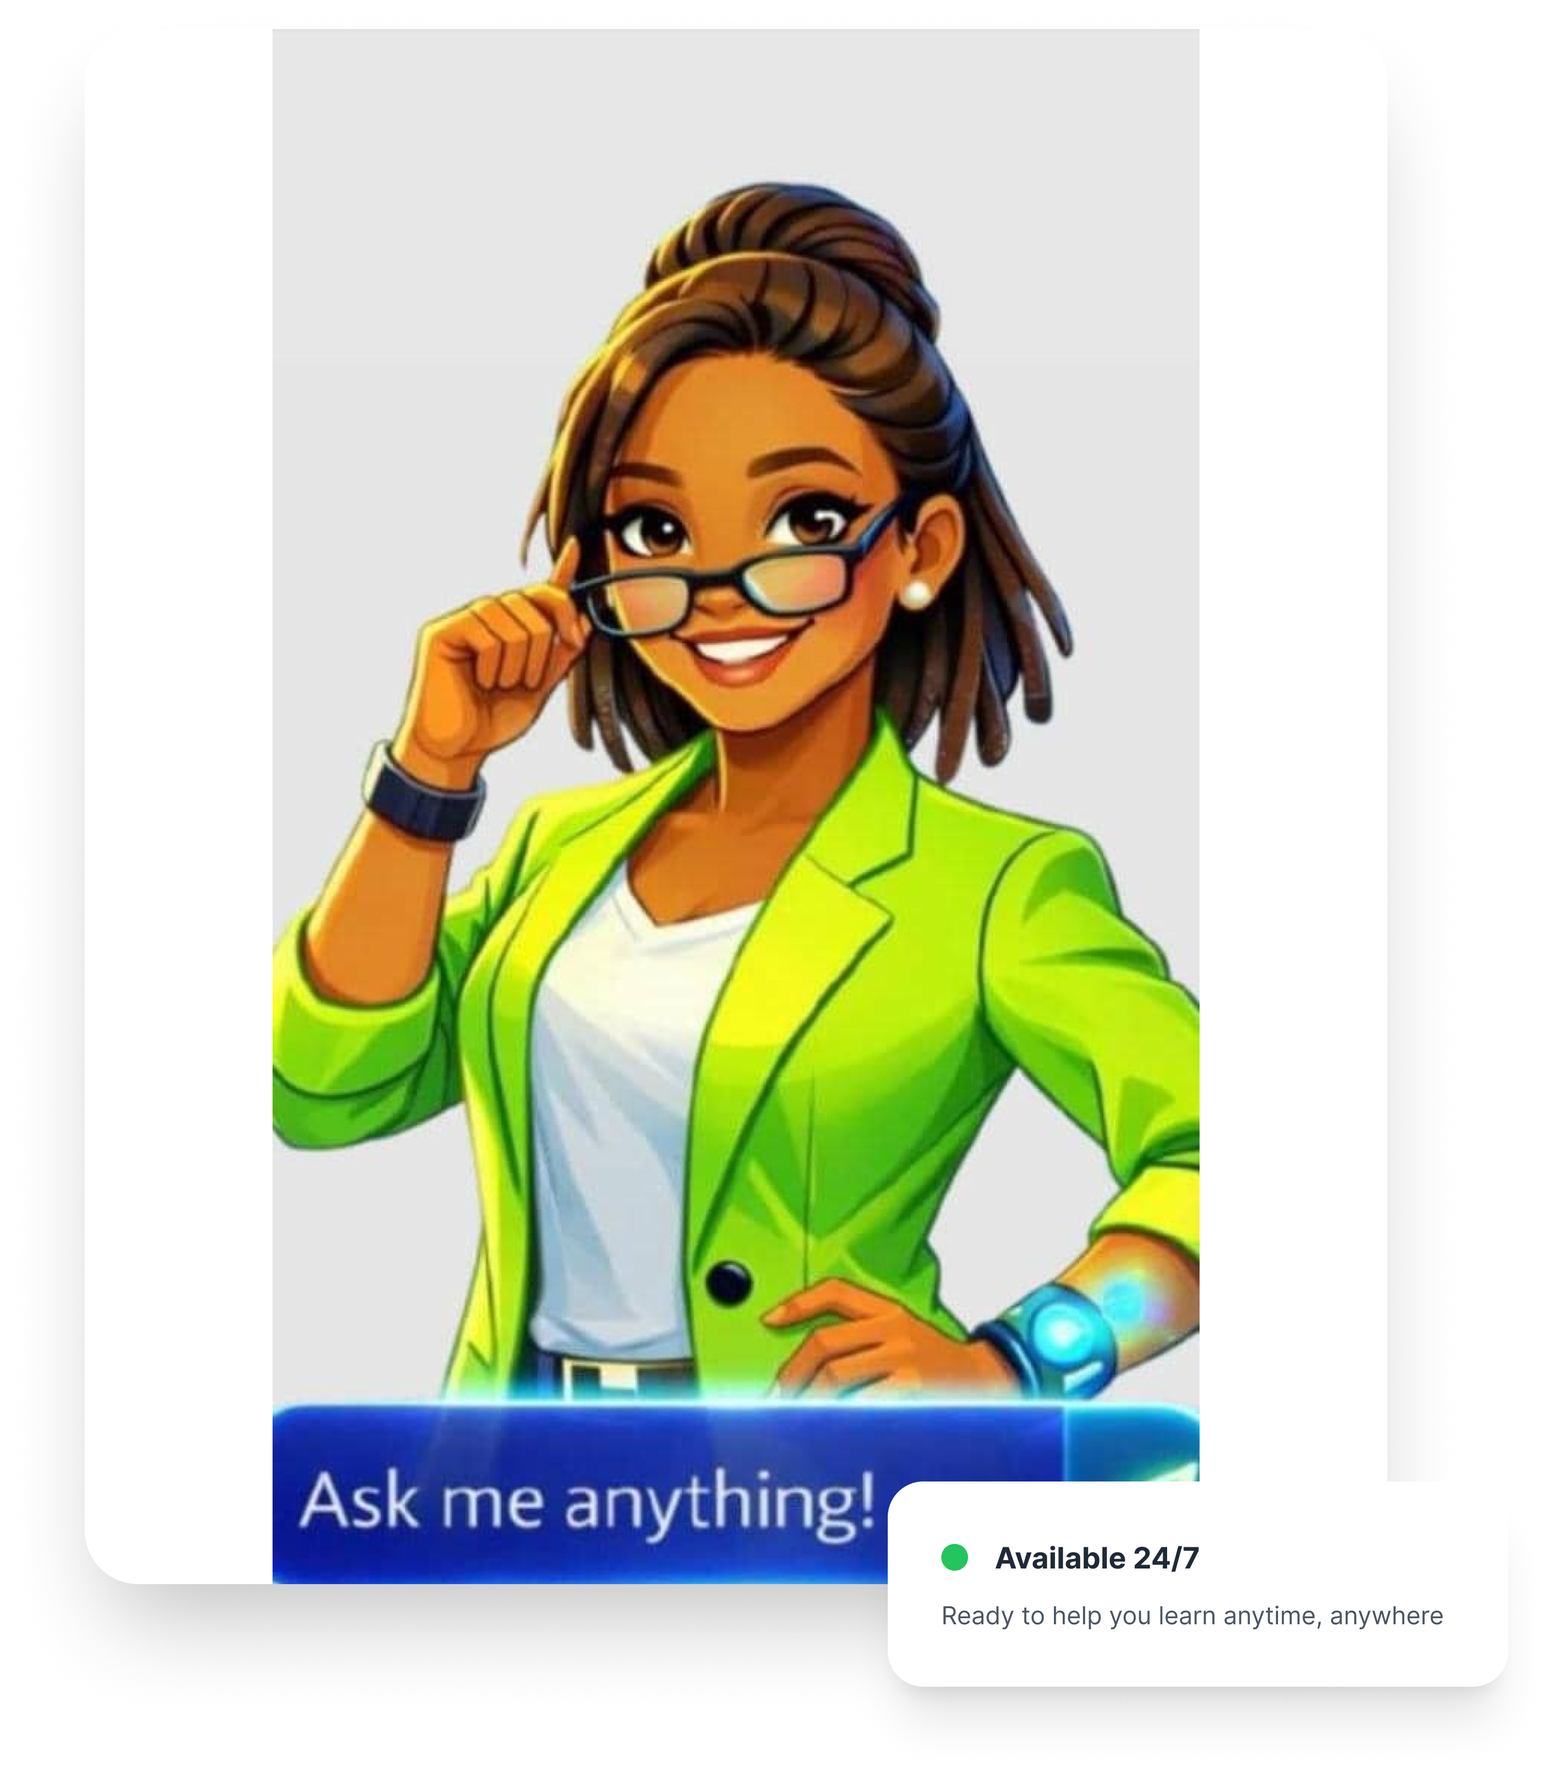
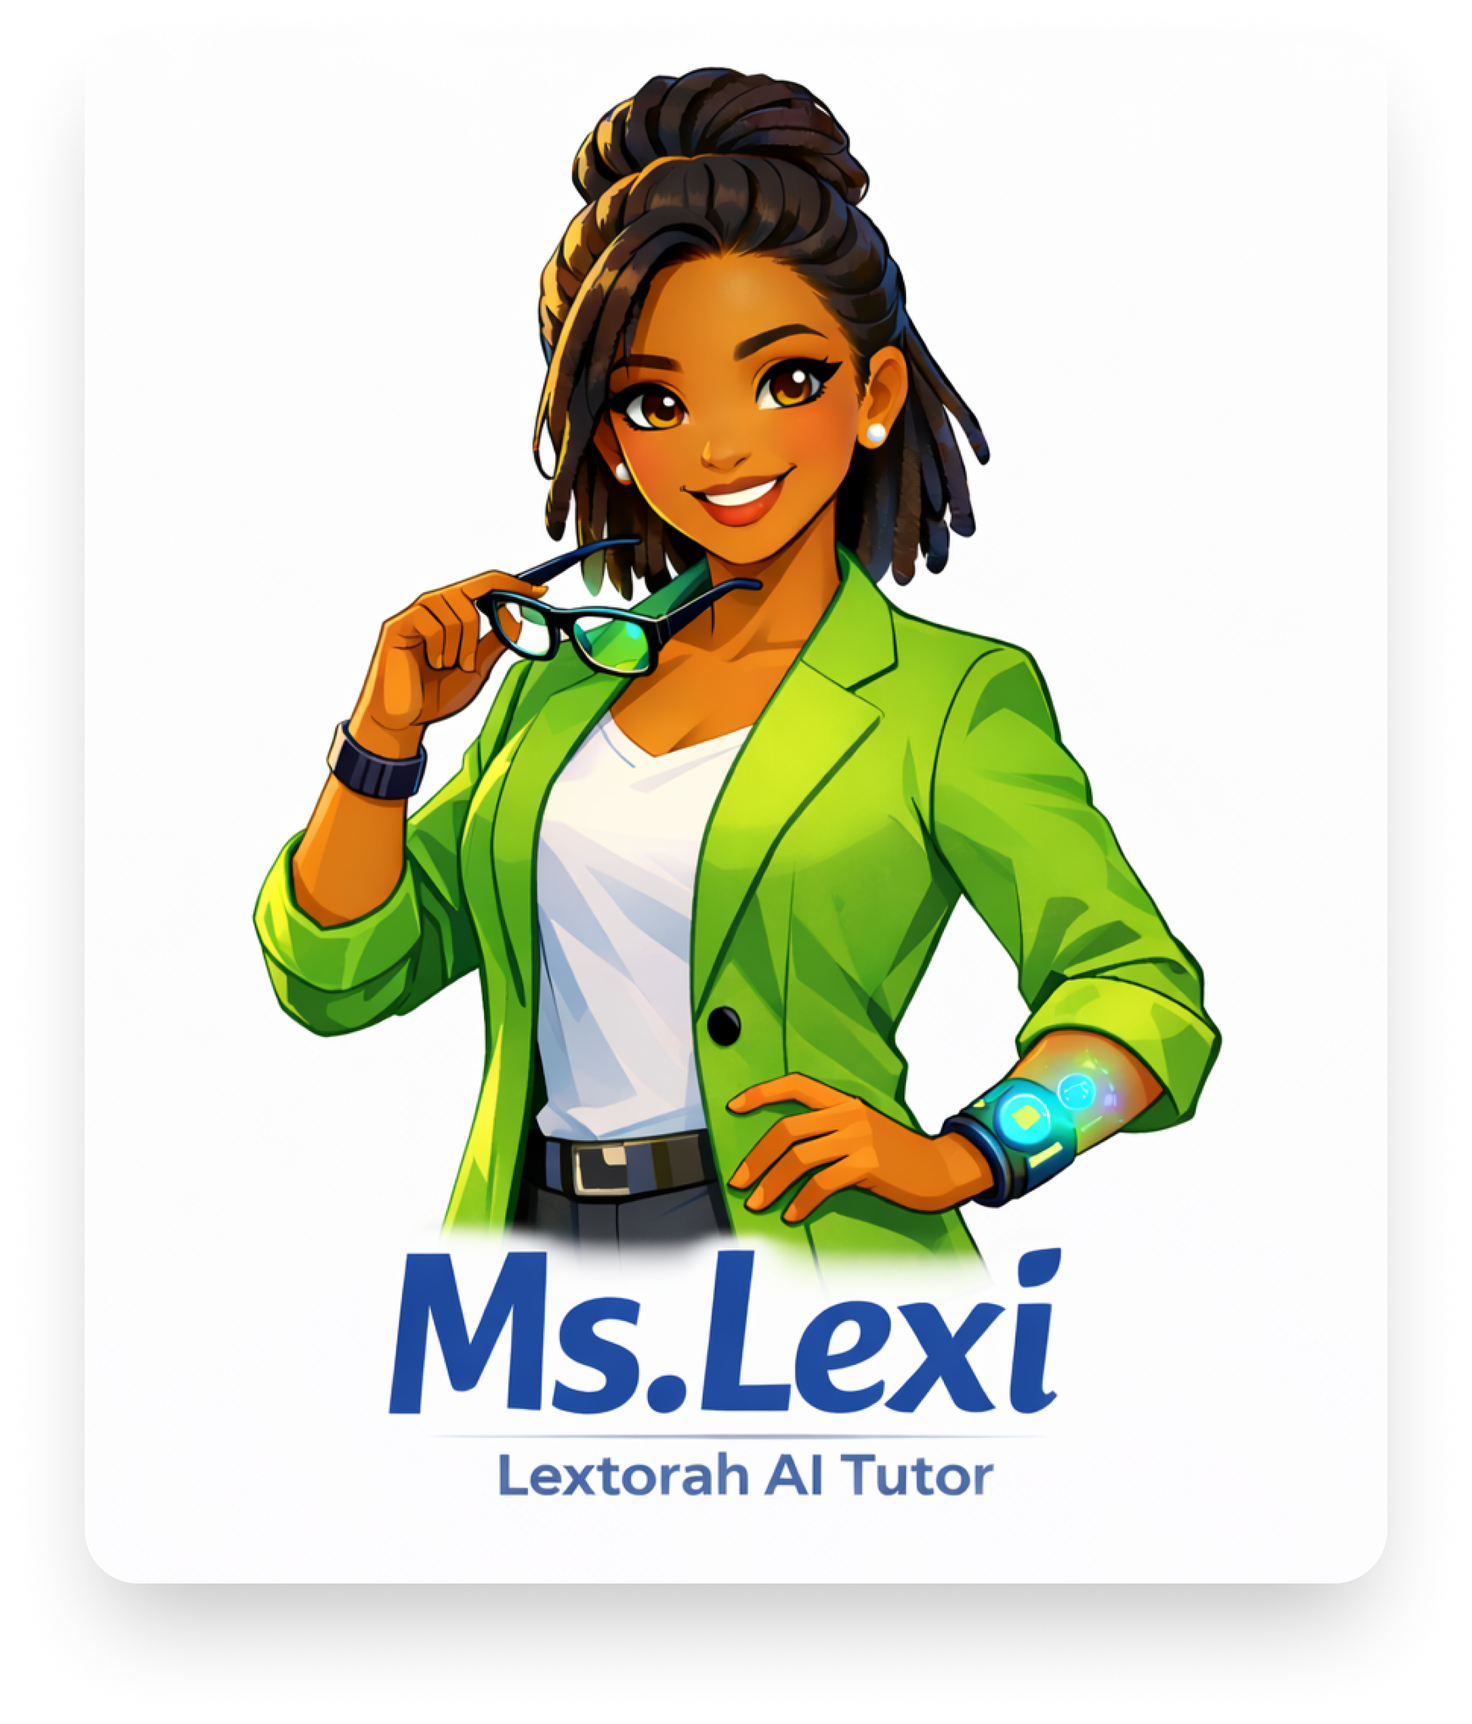
added online Db

diff --git a/src/(root)/Home.jsx b/src/(root)/Home.jsx
@@ -5,7 +5,7 @@ import { Link } from 'react-router-dom'
 import { ArrowRight, MessageSquare, Zap, Target, Smile, Clock, BookOpen, Shield, GraduationCap, Check, UserStar, Landmark, Instagram, Twitter, Linkedin, Facebook, CircleQuestionMark, Lightbulb, PenLine, ChartLine, NotepadText, ShieldCheck, Globe, MapPin } from 'lucide-react'
 import heroBg from '../assets/lextorah-home.jpg'
 import SupportChat from '../components/SupportChat'
-import lextorah from '../assets/container.png'
+import msLexi from '../assets/container.png'
 import student from '../assets/student.png'
 import teacher from '../assets/teacher.png'
 import institution from '../assets/institution.png'
@@ -41,14 +41,14 @@ const Home = () => {
       
       {/* Hero Section */}
       <div 
-        className="pt-28 pb-12 md:pb-20 px-4 md:px-8 mx-auto flex flex-col items-center text-center bg-cover bg-center min-h-[600px] md:min-h-[900px] w-full"
+        className="pt-[480px] md:pt-0 pb-12 md:pb-22 px-4 md:px- mx-auto flex flex-col items-start justify-center md:items-start text-left bg-cover bg-center min-h-[600px] md:min-h-[900px] w-full"
         style={{ backgroundImage: `url(${heroBg})` }}
       >
-        <div className="max-w-7xl mx-auto flex flex-col items-center text-center">
+        <div className="max-w-3xl mx-auto md:mx-0 flex flex-col items-center text-left md:pl-0">
         <motion.h1 
             initial={{ opacity: 0, y: 20 }}
             animate={{ opacity: 1, y: 0 }}
-            className="text-5xl md:text-7xl font-bold text-white mb-6 tracking-tight"
+            className="text-5xl md:text-7xl font-bold text-white mb-6 tracking-tight text-center"
         >
             Master any subject with <span className="text-green-500 gradient-to-r from-yellow-500 to-green-600">Lextorah AI Tutor</span>
         </motion.h1>
@@ -56,7 +56,7 @@ const Home = () => {
             initial={{ opacity: 0, y: 20 }}
             animate={{ opacity: 1, y: 0 }}
             transition={{ delay: 0.2 }}
-            className="text-xl md:text-2xl text-white mb-10 max-w-3xl leading-relaxed"
+            className="text-xl md:text-2xl text-white mb-10 max-w-3xl leading-relaxed text-center"
         >
             Experience personalized learning with voice interaction, step-by-step guidance, and instant feedback.
         </motion.p>
@@ -64,12 +64,12 @@ const Home = () => {
             initial={{ opacity: 0, y: 20 }}
             animate={{ opacity: 1, y: 0 }}
             transition={{ delay: 0.2 }}
-            className="flex flex-col sm:flex-row gap-4"
+            className="flex flex-col sm:flex-row gap-4 justify-center"
         >
-            <a href="https://www.lextorah-elearning.com/elearning/register" className="px-8 py-4 bg-green-500 hover:bg-green-600 text-white text-lg font-bold rounded-full transition-all shadow-lg hover:shadow-xl hover:-translate-y-1">
+            <a href="https://www.lextorah-elearning.com/elearning/register" className="px-8 py-4 bg-[#00C950] hover:bg-green-700 text-white text-lg font-bold rounded-4xl transition-all shadow-lg hover:shadow-xl hover:-translate-y-1">
                 Get Started for Free
             </a>
-             <Link to="/login" className="px-8 py-4 bg-white text-slate-700 border-2 border-slate-100 hover:border-green-200 text-lg font-bold rounded-full transition-all hover:-translate-y-1">
+             <Link to="/login" className="px-8 py-4 bg-white text-slate-700 border-2 border-slate-100 hover:border-green-200 text-lg font-bold rounded-4xl text-center transition-all hover:-translate-y-1">
                 Log In
             </Link>
         </motion.div>
@@ -85,10 +85,19 @@ const Home = () => {
         className='px-6 md:px-12 lg:px-28 py-16 md:py-24 grid md:grid-cols-2 gap-12 items-center' 
         id='aitutor'
     >
-        <motion.img variants={fadeInUp} src={lextorah} alt="" className="w-full h-auto rounded-2xl" />
+        <motion.div variants={fadeInUp} className="relative">
+            <img src={msLexi} alt="Ms. Lexi" className="w-full h-auto" />
+            <div className="absolute bottom-6 right-0 md:bottom-1 md:-right-10 bg-white p-4 md:p-5 rounded-2xl shadow-lg border border-slate-50 z-20 max-w-[200px] md:max-w-[240px]">
+                <div className="flex items-center gap-3 mb-1.5">
+                    <div className="w-2.5 h-2.5 bg-[#22C55E] rounded-full animate-pulse"></div>
+                    <h3 className="font-bold text-slate-900 text-sm md:text-base">Available 24/7</h3>
+                </div>
+                <p className="text-[10px] md:text-xs text-slate-500 leading-snug">Ready to help you learn anytime, anywhere</p>
+            </div>
+        </motion.div>
         <motion.div variants={fadeInUp}>
         <div className='bg-[#CCFBF1] py-3 px-6 rounded-full mb-6'>
-            <h1 className='text-[#0F766E] text-[24px] font-InterBold'> Meet Ms. Lexi     — Your AI Tutor & Learning Guide</h1>
+            <h1 className='text-[#0F766E] text-[24px] font-InterBold'> Meet Ms. Lexi® — Your AI Tutor & Learning Guide</h1>
         </div>
             <p className='text-[#374151] text-lg mb-6 font-Inter'>Ms. Lexi is Lextorah's AI-powered tutor and learning assistant, designed
                 to support learners, teachers, and institutions with personalized, on-
@@ -253,7 +262,7 @@ const Home = () => {
             id='howitworks'
         >
             <motion.div variants={fadeInUp}>
-                <h1 className='bg-[#CCFBF1] px-8 md:px-15 py-5 rounded-full w-fit mx-auto text-[#0F766E] font-InterBold text-[20px] md:text-[24px]'>Simple & Effective</h1>
+                <h1 className='bg-[#CCFBF1] px-8 md:px-15 py-5 rounded-full w-fit mx-auto text-[#0F766E] font-InterBold text-[20px] md:text-[42px]'>Simple & Effective</h1>
                 <h1 className='w-fit mx-auto mt-4 font-InterBold text-3xl md:text-[39px]'>How it works</h1>
                 <p className='w-fit mx-auto text-[#4B5563] mt-4 font-Inter text-center'>Four simple steps to smarter learning</p>
             </motion.div>
@@ -279,7 +288,7 @@ const Home = () => {
                     <img src={practice} alt="" className='mb-6' />
                     <PenLine className="w-12 h-12 py-1 px-3 bg-[#CCFBF1] rounded-lg text-[#0D9488] mb-3" />
                     <h1 className='font-InterBold mb-3'>Practice</h1>
-                    <p className='font-Inter text-[#4B5563]'>Learners receive exercises, quizzes, and revision prompts.</p>
+                    <p className='font-Inter text-[#4B5563] max-w-48'>Learners receive exercises, quizzes, and revision prompts.</p>
 
                 </motion.div>
 
@@ -306,7 +315,7 @@ const Home = () => {
             className='px-6 md:px-12 lg:px-20 py-16 md:py-20'
         >
             <motion.div variants={fadeInUp} className='px-0 md:px-6 text-center'>
-                <h1 className='text-[#0F766E] font-InterBold text-xl md:text-2xl bg-[#CCFBF1] mx-auto w-fit rounded-full py-4 px-4 mb-6'>Why Choose Lextorah AI?</h1>
+                <h1 className='text-[#0F766E] font-InterBold text-xl md:text-[52px] bg-[#CCFBF1] mx-auto w-fit rounded-full py-4 px-4 mb-6'>Why Choose Lextorah AI?</h1>
                 <h2 className='font-InterBold text-3xl md:text-4xl text-center mb-4'>Built for Education. Designed for Impact.</h2>
                 <p className='font-Inter text-[#4B5563] text-center mt-2 text-lg'>Not just another chatbot—a purpose-built educational AI platform</p>
             </motion.div>
@@ -318,7 +327,7 @@ const Home = () => {
 
                 <motion.div variants={staggerContainer} className='space-y-6'>
                     <div className='p-6 flex gap-4 bg-gradient-to-br from-[#F0FDFA] to-[#FFFFFF] rounded-xl shadow-xl border border-[#CCFBF1] transition-transform hover:-translate-y-1'>
-                        <BookOpen className="w-12 h-12 py-1 px-3 bg-[#CCFBF1] rounded-lg text-[#0D9488] mb-3 flex-shrink-0" />
+                        <BookOpen className="w-12 h-12 py-1 px-3 bg-[#0D9488] rounded-lg text-white mb-3 flex-shrink-0" />
                         <div className='gap-2' >
                             <h1 className='font-InterBold'>Education-First AI</h1>
                             <p className='font-Inter text-[#374151] text-sm'>Not a generic chatbot—purpose-built for learning with pedagogical principles at its core.</p>
@@ -326,7 +335,7 @@ const Home = () => {
                     </div>
 
                     <div className='p-6 flex gap-4 bg-gradient-to-br from-[#F0FDFA] to-[#FFFFFF] rounded-xl shadow-xl border border-[#CCFBF1] transition-transform hover:-translate-y-1'>
-                        <NotepadText className="w-12 h-12 py-1 px-3 bg-[#CCFBF1] rounded-lg text-[#0D9488] mb-3 flex-shrink-0" />
+                        <NotepadText className="w-12 h-12 py-1 px-3 bg-[#0D9488] rounded-lg text-white mb-3 flex-shrink-0" />
                         <div className='gap-2' >
                             <h1 className='font-InterBold'>Curriculum Aligned</h1>
                             <p className='font-Inter text-[#374151] text-sm'>Aligned with Lextorah curricula and programs to ensure consistent, quality education.</p>
@@ -334,7 +343,7 @@ const Home = () => {
                     </div>
 
                     <div className='p-6 flex gap-4 bg-gradient-to-br from-[#F0FDFA] to-[#FFFFFF] rounded-xl shadow-xl border border-[#CCFBF1] transition-transform hover:-translate-y-1'>
-                        <ShieldCheck className="w-12 h-12 py-1 px-3 bg-[#CCFBF1] rounded-lg text-[#0D9488] mb-3 flex-shrink-0" />
+                        <ShieldCheck className="w-12 h-12 py-1 px-3 bg-[#0D9488] rounded-lg text-white mb-3 flex-shrink-0" />
                         <div className='gap-2' >
                             <h1 className='font-InterBold'>Ethical Learning Support</h1>
                             <p className='font-Inter text-[#374151] text-sm'>No shortcuts or academic misconduct—designed to support genuine understanding.</p>
@@ -342,7 +351,7 @@ const Home = () => {
                     </div>
 
                     <div className='p-6 flex gap-4 bg-gradient-to-br from-[#F0FDFA] to-[#FFFFFF] rounded-xl shadow-xl border border-[#CCFBF1] transition-transform hover:-translate-y-1'>
-                        <Globe className="w-12 h-12 py-1 px-3 bg-[#CCFBF1] rounded-lg text-[#0D9488] mb-3 flex-shrink-0" />
+                        <Globe className="w-12 h-12 py-1 px-3 bg-[#0D9488] rounded-lg text-white mb-3 flex-shrink-0" />
                         <div className='gap-2' >
                             <h1 className='font-InterBold'>Multilingual & Inclusive</h1>
                             <p className='font-Inter text-[#374151] text-sm'>Supports multiple languages and learning levels for diverse learners worldwide.</p>
@@ -350,7 +359,7 @@ const Home = () => {
                     </div>
 
                     <div className='p-6 flex gap-4 bg-gradient-to-br from-[#F0FDFA] to-[#FFFFFF] rounded-xl shadow-xl border border-[#CCFBF1] transition-transform hover:-translate-y-1'>
-                        <MapPin className="w-12 h-12 py-1 px-3 bg-[#CCFBF1] rounded-lg text-[#0D9488] mb-3 flex-shrink-0" />
+                        <MapPin className="w-12 h-12 py-1 px-3 bg-[#0D9488] rounded-lg text-white mb-3 flex-shrink-0" />
                         <div className='gap-2' >
                             <h1 className='font-InterBold'>Built for Africa & Beyond</h1>
                             <p className='font-Inter text-[#374151] text-sm'>Designed for African and global learners with culturally relevant content.</p>
@@ -487,11 +496,11 @@ const Home = () => {
 
        {/* CTA Section */}
        <div className="py-18 relative">
-           <div className="max-w-5xl mx-auto px-4 text-center">
+           <div className="max-w-7xl mx-auto px-4 text-center">
                <div className="bg-[#0F766E] rounded-3xl p-12 md:p-20 relative overflow-hidden">
                     <div className="relative z-10">
                         <h2 className="text-4xl md:text-5xl font-bold text-white mb-6">Start Learning Smarter with Ms. Lexi®</h2>
-                        <p className="text-slate-300 text-lg mb-10 max-w-2xl mx-auto">Join thousands of learners, educators, and institutions transforming
+                        <p className="text-slate-300 text-lg mb-10 max-w-2xl mx-auto px-11">Join thousands of learners, educators, and institutions transforming
 education with AI-powered support</p>
                         <a href="https://www.lextorah-elearning.com/elearning/register" className="inline-block px-10 py-5 bg-white hover:bg-green-600 text-[#0D9488] font-bold rounded-full transition-all shadow-lg hover:shadow-green-500/25 text-lg hover:text-white">
                             Sign Up Now
@@ -501,11 +510,11 @@ education with AI-powered support</p>
            </div>
        </div>
 
-       <footer className="px-6 md:px-12 lg:px-20 bg-gradient-to-r from-[#0D9488] to-[#0F766E]">
+       <footer className="px-6 md:px-12 lg:px-20 bg-linear-to-r from-[#0D9488] to-[#0F766E]">
         <div className="py-16 px-4 md:px-8 space-y-12">
             <div className='grid grid-cols-1 md:grid-cols-2 lg:grid-cols-4 gap-8 md:gap-12'>
                 <div className='space-y-8'>
-                    <img src={logo} alt="" className='w-[128px]' />
+                    <img src={logo} alt="" className='w-32' />
                     <h1 className='text-white font-Inter'>Empowering Learning. Guiding Progress Globally.</h1>
                     <div className='flex gap-4 '>
                         <Instagram className='text-white'/>
@@ -516,29 +525,29 @@ education with AI-powered support</p>
                 </div>
 
                 <div className='space-y-8 '>
-                    <h1 className='font-InterBold text-white'>Product</h1>
-                    <ul className='space-y-3'>
+                    <h2 className='font-Inter text-white'>Explore Lextorah Programs.</h2>
+                    {/* <ul className='space-y-3'>
                         <li className='text-sm font-Inter text-white'>AI Tutor</li>
                         <li className='text-sm font-Inter text-white'>Digital Learning Support</li>
                         <li className='text-sm font-Inter text-white'>For Students</li>
                         <li className='text-sm font-Inter text-white'>For Parents</li>
                        
-                    </ul>
+                    </ul> */}
                 </div>
                 <div className='space-y-8 '>
-                    <h1 className='font-InterBold text-white'>Company</h1>
+                    {/* <h1 className='font-InterBold text-white'>Company</h1> */}
                     <ul className='space-y-3'>
                         <li className='text-sm font-Inter text-white'>About Us</li>
-                        <li className='text-sm font-Inter text-white'>Contact Us</li>
+                        <li className='text-sm font-Inter text-[#FFFFFF] py-0.5'>Contact Us</li>
                     </ul>
                 </div>
                 <div className='space-y-8 '>
-                    <h1 className='font-InterBold text-white'>Resources</h1>
+                    {/* <h1 className='font-InterBold text-white'>Resources</h1> */}
                     <ul className='space-y-3'>
-                        <li className='text-sm font-Inter text-white'>Help Center</li>
+                        {/* <li className='text-sm font-Inter text-white'>Help Center</li> */}
                         <li className='text-sm font-Inter text-white'>Privacy Policy</li>
-                        <li className='text-sm font-Inter text-white'>Terms of Use</li>
-                        <li className='text-sm font-Inter text-white'>Cookie Policy</li>
+                        <li className='text-sm font-Inter text-white'>Terms of Service</li>
+                        {/* <li className='text-sm font-Inter text-white'>Cookie Policy</li> */}
                     </ul>
                 </div>
 

diff --git a/src/components/NavBar.jsx b/src/components/NavBar.jsx
@@ -24,26 +24,26 @@ const NavBar = () => {
        
         {/* Desktop Menu */}
         <div className='items-center gap-8 hidden lg:flex'>
-            <NavLink to='/' className='text-slate-600 hover:text-green-600 font-medium transition-colors'>
-                Home
-            </NavLink>
             <a href='/#aitutor' className='text-slate-600 hover:text-green-600 font-medium transition-colors'>
-                AI Tutor
+                Meet Ms. Lexi®
+            </a>
+            <a href='/#features' className='text-slate-600 hover:text-green-600 font-medium transition-colors'>
+                Learners
             </a>
              <a href='/#features' className='text-slate-600 hover:text-green-600 font-medium transition-colors'>
-                Features
+                Teachers
             </a>
-            <a href='/#howitworks' className='text-slate-600 hover:text-green-600 font-medium transition-colors'>
-                    How It Works
+            <a href='/#features' className='text-slate-600 hover:text-green-600 font-medium transition-colors'>
+                    Parents
+            </a>
+            <a href='/#features' className='text-slate-600 hover:text-green-600 font-medium transition-colors'>
+                    Institutions
             </a>
 
             
             <div className="flex items-center gap-4 ml-4">
-                <Link to='/login' className='text-slate-900 font-bold hover:text-green-600 transition-colors'>
-                    Log In
-                </Link>
-                <Link to='https://www.lextorah-elearning.com/elearning/register' className='px-5 py-2.5 bg-green-500 hover:bg-green-600 text-white font-bold rounded-full transition-all shadow-md hover:shadow-lg'>
-                    Sign Up
+                <Link to='https://www.lextorah-elearning.com/elearning/register' className='px-5 py-2.5 bg-[#0D9488] hover:bg-green-700 text-white font-bold rounded-md transition-all shadow-md hover:shadow-lg'>
+                    Get Started
                 </Link>
             </div>
         </div>
